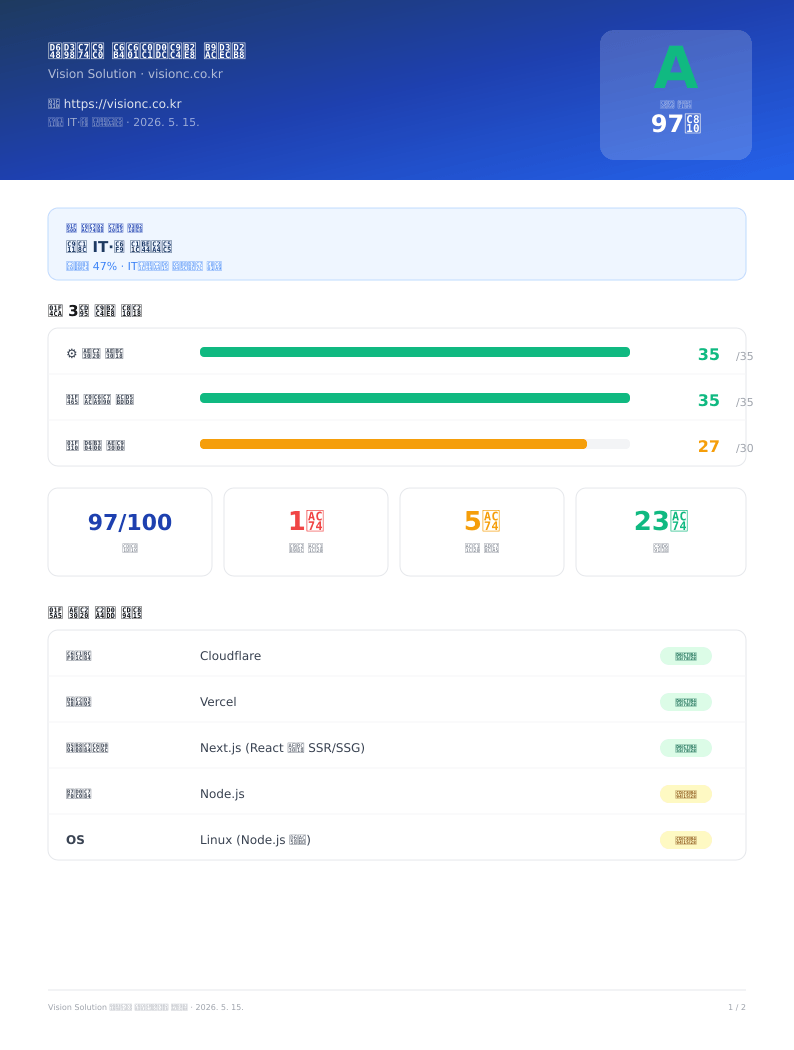
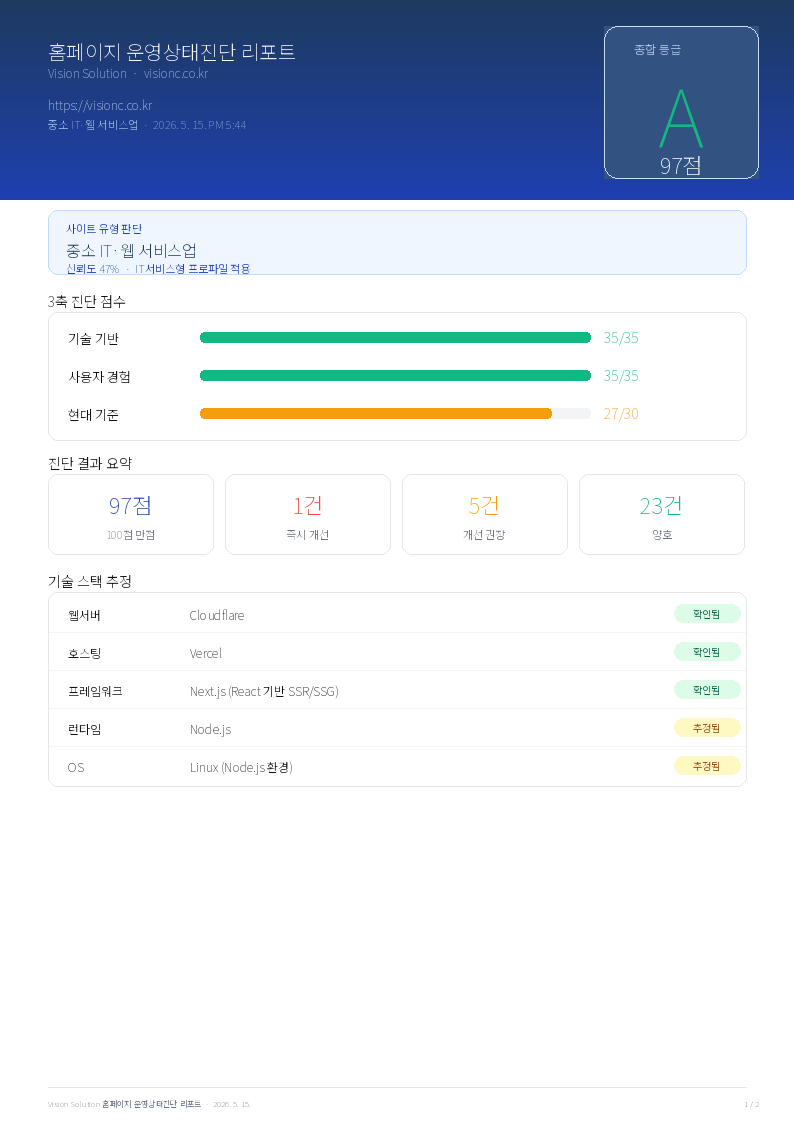
feat(blog): 홈페이지 진단 리포트 블로그 이미지 교체 + 본문 대폭 보강
- 리포트 이미지 2장: PIL+NotoSansKR로 재생성 (한글 깨짐 수정)
- 블로그 본문: 리포트 각 항목을 초보자 눈높이로 상세 설명 추가
  (종합 등급 기준, 3축 점수 의미, 기술 스택 추정, 개선 항목 6가지)
- markdownToHtml: 이미지 img 태그 렌더링 지원 추가 (클릭 없이 바로 표시)

diff --git a/content/blog/website-diagnosis-report-real-sample.md b/content/blog/website-diagnosis-report-real-sample.md
@@ -6,27 +6,224 @@ tags: "홈페이지 진단,리포트 공개,AI 분석,홈페이지 성과,무료
 image: "/images/blog/website-diagnosis-report-real-sample.svg"
 summary: "AI가 홈페이지를 자동 분석하면 어떤 리포트가 나올까요? 실제 진단 결과물을 그대로 공개합니다. 기술 점수·UX 점수·현대화 점수 100점 만점, 등급과 개선 과제까지 한눈에."
 ---
-홈페이지를 운영하고 있는데 문의가 오지 않아 고민이신가요? 어디서부터 문제를 찾아야 할지 막막하다면, 지금 바로 AI 기반 무료 홈페이지 진단 리포트를 받아보세요. 단 한 줄의 URL만 입력하면 48시간 내에 상세한 분석 결과가 담긴 PDF를 이메일로 보내드립니다.
 
-AI 진단은 홈페이지를 세 가지 핵심 축으로 평가합니다. 기술 점수, UX 점수, 현대화 점수 각각 35점, 35점, 30점 만점으로 구성되어 총 100점 만점을 기준으로 합니다. 아래 표는 각 영역별 배점과 주요 점검 항목을 보여줍니다.
+> 홈페이지가 있는데 문의가 없다. 어디가 문제인지 모르겠다.
+> 이런 상황이라면, 지금 바로 읽어보세요.
 
-| 영역 | 배점 | 주요 점검 항목 |
-|------|------|--------------|
-| 기술 점수 | 35점 | HTTPS, 보안 헤더, 메타태그, robots.txt, 사이트맵 |
-| UX 점수 | 35점 | 모바일 반응형, 뷰포트 설정, 터치 요소 크기, 폰트 가독성 |
-| 현대화 점수 | 30점 | 속도 최적화, GA4 연동, 챗봇, 스키마 마크업, CTA 배치 |
+홈페이지를 운영하는 분들이 가장 많이 하시는 말씀이 있습니다.
 
-![홈페이지 운영상태진단 리포트 1페이지](/images/blog/renewal-report-sample-p1.png)
-![홈페이지 운영상태진단 리포트 2페이지](/images/blog/renewal-report-sample-p2.png)
+**"우리 홈페이지, 그냥 있긴 한데… 뭐가 문제인지 모르겠어요."**
 
-실제로 visionc.co.kr에 적용한 진단 결과는 총점 97점, A등급이었습니다. 세부 점수는 기술 35/35점, UX 35/35점, 현대화 27/30점으로 나타났습니다. 이는 홈페이지의 기술적 안정성과 사용자 경험은 최상 수준이며, 현대화 요소에서 약간의 개선 여지가 있음을 보여줍니다.
+이걸 몰라서 생기는 문제가 생각보다 훨씬 큽니다. 광고비는 쓰는데 문의는 없고, 홈페이지를 고치고 싶은데 뭘 어디서부터 손봐야 할지 막막하죠.
 
-이제 여러분의 홈페이지도 진단받아 보세요. 문제점을 정확히 파악하고 개선 방향을 제시받을 수 있습니다. [무료 홈페이지 진단 받기](/renewal)
+저희 비전솔루션이 만든 **홈페이지 운영상태진단** 서비스는 이 고민을 해결하기 위해 만들었습니다. URL 하나만 입력하면 AI가 자동으로 분석하고, 48시간 안에 PDF 리포트를 이메일로 발송합니다.
 
-진단 리포트는 단순히 점수만 보여주는 것이 아니라, 각 항목별로 구체적인 피드백과 실행 가능한 개선 과제를 제공합니다. 예를 들어 기술 점수에서는 보안 헤더 누락이나 메타태그 최적화 여부를 확인하고, UX 점수에서는 모바일 터치 대상 크기와 폰트 가독성을 점검합니다. 현대화 점수에서는 페이지 로드 속도 최적화 여부와 GA4 연동 상태, 스키마 마크업 구현 등을 평가합니다.
+오늘은 실제 진단 결과물을 그대로 공개합니다. 리포트에 나오는 항목이 무슨 뜻인지, 초보자도 이해할 수 있도록 하나하나 설명드리겠습니다.
 
-이러한 종합적인 분석을 바탕으로 홈페이지의 전반적인 성능을 높이고, 방문자에게 더 나은 경험을 제공할 수 있습니다. 개선 사항을 적용한 후에는 재진단을 통해 점수 변화를 확인할 수도 있습니다.
+---
 
-[무료 홈페이지 진단 받기](/renewal)
+## 리포트는 이렇게 생겼습니다
 
-*이 리포트는 AI 자동 분석 결과이며 실제 환경에 따라 일부 다를 수 있습니다.*
+아래 이미지가 실제 진단 결과물입니다. 진단 대상은 저희 회사 홈페이지(visionc.co.kr)입니다.
+
+![홈페이지 운영상태진단 리포트 1페이지 — 종합 등급 및 3축 점수](/images/blog/renewal-report-sample-p1.png)
+
+![홈페이지 운영상태진단 리포트 2페이지 — 항목별 상세 진단 및 개선 과제](/images/blog/renewal-report-sample-p2.png)
+
+**결과: 97점 / A등급**
+
+처음 보시면 "이게 다 뭔 뜻이야?"라고 느끼실 수 있습니다. 지금부터 하나씩 풀어드리겠습니다.
+
+---
+
+## 종합 등급이란? — A~F까지 5단계
+
+리포트 오른쪽 상단에 크게 표시되는 **등급**은 홈페이지의 전반적인 상태를 한눈에 나타냅니다.
+
+| 등급 | 점수 | 의미 |
+|------|------|------|
+| A | 90점 이상 | 현재 상태 우수. 정기 모니터링 권장 |
+| B | 80~89점 | 양호. 일부 개선으로 상위 도달 가능 |
+| C | 70~79점 | 보통. 주요 항목 개선 필요 |
+| D | 60~69점 | 미흡. 구조적 개선이 필요한 상태 |
+| F | 60점 미만 | 위험. 빠른 조치 권장 |
+
+등급이 낮다고 해서 당장 큰일 나는 건 아닙니다. 다만 **방문자가 불편을 느끼고 있을 가능성이 높다**는 신호입니다.
+
+---
+
+## 사이트 유형 판단 — AI가 홈페이지 성격을 자동 분류합니다
+
+리포트 상단에 **"중소 IT·웹 서비스업 / 신뢰도 47% · IT서비스형 프로파일 적용"** 이라고 나옵니다.
+
+이게 무슨 뜻이냐면, AI가 홈페이지 내용을 보고 "이 사이트는 어떤 업종, 어떤 규모로 운영되는 홈페이지인가"를 자동으로 추측한다는 뜻입니다.
+
+업종마다 홈페이지에서 중요한 요소가 다릅니다. 쇼핑몰은 결제 편의성이 중요하고, IT 회사는 신뢰도와 기술력 표현이 중요하죠. 이 유형 판단을 바탕으로 진단 기준이 조금씩 달라집니다.
+
+**신뢰도 47%**는 AI가 "이 사이트가 IT·웹 서비스업일 가능성이 47%"라고 판단했다는 뜻입니다. 100%가 아닌 이유는 공개된 정보만으로 분석하기 때문입니다.
+
+---
+
+## 3축 진단 점수 — 100점 만점, 세 가지로 나눕니다
+
+점수는 크게 세 가지 축으로 나뉩니다. 합산하면 100점 만점입니다.
+
+### 기술 기반 (35점 만점)
+
+**쉽게 말하면:** 홈페이지가 "기술적으로 제대로 만들어졌는가"를 봅니다.
+
+주로 이런 것들을 확인합니다:
+- **HTTPS 적용** — 주소창에 자물쇠 아이콘이 있나요? 없으면 방문자 정보가 노출될 수 있습니다.
+- **보안 헤더 설정** — 브라우저에게 "이 사이트는 안전하게 사용해"라고 알려주는 기술 설정입니다. 없으면 해킹 시도에 더 취약합니다.
+- **메타태그 최적화** — 검색 결과에서 어떻게 보이는지를 결정하는 텍스트입니다. 잘 작성돼야 검색 노출이 잘 됩니다.
+- **robots.txt** — 검색 엔진에게 "이 페이지는 수집해도 돼, 이건 하지 마"를 알려주는 파일입니다.
+- **사이트맵** — 홈페이지의 전체 페이지 목록을 정리한 파일로, 검색 엔진이 빠르게 페이지를 발견하게 도와줍니다.
+
+visionc.co.kr은 **35점 만점**을 받았습니다. 기술적인 기반이 탄탄하다는 뜻입니다.
+
+### 사용자 경험 (35점 만점)
+
+**쉽게 말하면:** 홈페이지를 방문한 사람이 "편하게 쓸 수 있는가"를 봅니다.
+
+확인 항목 예시:
+- **모바일 반응형** — 스마트폰에서 봤을 때 글자가 너무 작거나 버튼이 짤리지 않는지
+- **뷰포트 설정** — 모바일 화면 크기에 맞게 콘텐츠가 조정되는지
+- **터치 요소 크기** — 손가락으로 클릭하기 충분히 큰지 (너무 작으면 오타가 나서 불편합니다)
+- **폰트 가독성** — 글자가 읽기 편한 크기와 색상인지
+
+visionc.co.kr은 **35점 만점**이지만, 아래에서 보시다시피 개선 권장 항목이 발견됐습니다.
+
+### 현대 기준 (30점 만점)
+
+**쉽게 말하면:** "지금 시대에 기본으로 갖춰야 할 것들이 있는가"를 봅니다.
+
+확인 항목 예시:
+- **GA4 연동** — 방문자 통계 도구가 설치돼 있는지 (없으면 누가 왔는지 알 수 없습니다)
+- **페이지 로딩 속도** — 3초 이상 걸리면 방문자의 절반이 떠납니다
+- **챗봇 또는 상담 도구** — 방문자가 바로 질문할 수 있는 창구가 있는지
+- **스키마 마크업** — 검색 결과에서 별점·FAQ 등 풍부한 정보가 표시되게 하는 코드
+- **CTA 배치** — "문의하기", "상담 신청" 버튼이 눈에 잘 띄는 위치에 있는지
+
+visionc.co.kr은 **27점/30점**으로, 개선 여지가 조금 있었습니다.
+
+---
+
+## 진단 결과 요약 카드 — 숫자로 한눈에
+
+리포트에는 4개의 요약 카드가 있습니다:
+
+- **97점 / 100점 만점** — 종합 점수
+- **1건 / 즉시 개선** — 지금 당장 고쳐야 할 것 (방치하면 문의 손실)
+- **5건 / 개선 권장** — 시간 여유가 있을 때 개선하면 좋은 것
+- **23건 / 양호** — 현재 기준에서 문제없는 항목 수
+
+"즉시 개선"과 "개선 권장"의 차이는 **긴급도**입니다. 즉시 개선은 지금 당장 방문자 이탈이나 신뢰 손실이 일어나고 있는 상황, 개선 권장은 더 잘할 수 있는 기회입니다.
+
+---
+
+## 기술 스택 추정 — AI가 홈페이지 기술을 알아냅니다
+
+리포트 하단에 이런 표가 있습니다:
+
+| 구분 | 내용 | 상태 |
+|------|------|------|
+| 웹서버 | Cloudflare | 확인됨 |
+| 호스팅 | Vercel | 확인됨 |
+| 프레임워크 | Next.js (React 기반 SSR/SSG) | 확인됨 |
+| 런타임 | Node.js | 추정됨 |
+| OS | Linux (Node.js 환경) | 추정됨 |
+
+**웹서버**는 홈페이지 파일을 인터넷에 전달해주는 역할을 합니다. Cloudflare는 전 세계 어디서 접속해도 빠르고 보안이 강력한 서비스입니다.
+
+**호스팅**은 홈페이지 파일이 실제로 저장되는 곳입니다. Vercel은 빠른 배포와 글로벌 속도로 유명합니다.
+
+**프레임워크**는 홈페이지를 만들 때 사용한 기술 도구입니다. Next.js는 React 기반으로 속도와 SEO에 강한 최신 기술입니다.
+
+**"확인됨"**은 AI가 공개 정보로 직접 확인한 것, **"추정됨"**은 간접적으로 유추한 것입니다.
+
+이 정보가 왜 필요하냐면, **리뉴얼이나 유지보수를 맡길 업체를 선정할 때** 현재 기술 스택을 알아야 적합한 개발자를 찾을 수 있기 때문입니다.
+
+---
+
+## 항목별 상세 진단 — 뭘 고쳐야 하는지 구체적으로 알 수 있습니다
+
+진단 리포트의 핵심입니다. 각 축별로 **어떤 항목이 문제인지**, **왜 문제인지**, **어떻게 고치면 되는지**까지 알려줍니다.
+
+### 사용자 경험 — 발견된 개선 항목 3가지
+
+**1. 문의·연락 버튼 접근성 (영향 높음)**
+
+- 현재 상태: 전화 링크 없음
+- 개선 방향: 전화 링크(tel:)·문의 폼을 첫 화면에서 스크롤 없이 접근 가능하게 배치
+
+**쉽게 말하면:** 방문자가 홈페이지에 들어왔을 때 바로 "전화하기" 버튼이나 "문의하기" 링크가 보여야 합니다. 스크롤을 내려야만 찾을 수 있다면, 많은 사람이 그냥 나가버립니다. 특히 모바일에서는 전화번호를 탭하면 바로 전화가 걸리는 `tel:` 링크가 필수입니다.
+
+**2. 하단 연락처 표시 (영향 중간)**
+
+- 현재 상태: 하단에 연락처·사업자 정보 없음
+- 개선 방향: 전화번호·이메일·주소를 하단에 명시
+
+**쉽게 말하면:** 홈페이지 가장 아래쪽(footer)에 회사 전화번호, 이메일, 주소, 사업자등록번호가 표시돼야 합니다. 이게 없으면 "이 회사 실제로 존재하는 건지 모르겠다"는 의심을 받습니다. 전자상거래법상 의무 표기 항목이기도 합니다.
+
+**3. 웹 접근성 기초 (영향 높음)**
+
+- 현재 상태: 건너뛰기 링크 없음, 키보드 탐색 불편
+- 개선 방향: 건너뛰기 링크 + ARIA 레이블 추가
+
+**쉽게 말하면:** 시각 장애인이나 키보드만 사용하는 분들도 홈페이지를 이용할 수 있어야 합니다. "건너뛰기 링크"는 키보드로 접속했을 때 메뉴를 일일이 탭하지 않고 바로 본문으로 이동하게 해주는 기능입니다. 공공기관이나 일정 규모 이상의 기업에서는 법적 의무 항목이기도 합니다.
+
+### 현대 기준 — 발견된 개선 항목 3가지
+
+**1. 기술 스택 현대성 (영향 높음)**
+
+- 현재 상태: Next.js 기반 — 지속적 업데이트 관리 필요
+- 개선 방향: 최신 버전 업데이트로 보안·성능·유지보수성 개선
+
+**쉽게 말하면:** 홈페이지를 만든 기술(프레임워크)도 계속 업데이트됩니다. 오래된 버전을 그대로 쓰면 보안 취약점이 생기고, 속도가 느려지고, 나중에 수정하기가 더 어려워집니다. 정기적으로 업데이트해주거나, 유지보수 계약을 통해 관리받는 것이 좋습니다.
+
+**2. SNS·채널 연동 (영향 낮음)**
+
+- 현재 상태: SNS·소셜 채널 링크 없음
+- 개선 방향: 인스타그램·유튜브·카카오 채널 링크 추가
+
+**쉽게 말하면:** 홈페이지에서 인스타그램, 유튜브, 카카오 채널 같은 SNS로 연결되는 링크가 없다는 뜻입니다. SNS 링크가 있으면 방문자가 팔로우하거나 구독해서 나중에 다시 찾아올 가능성이 높아집니다. 브랜드 노출 기회가 늘어나는 것이죠.
+
+**3. 쿠키·개인정보 동의 배너 (영향 중간)**
+
+- 현재 상태: 쿠키 동의 배너 없음
+- 개선 방향: 쿠키 동의 팝업 추가 → 개인정보보호법 대응
+
+**쉽게 말하면:** 방문자의 개인정보(방문 기록, 광고 추적 등)를 수집할 때는 반드시 동의를 받아야 합니다. 홈페이지에 들어갔을 때 "쿠키 사용에 동의하시겠어요?" 같은 팝업이 뜨는 게 그겁니다. 개인정보보호법에 따라 이게 없으면 과태료 대상이 될 수 있습니다.
+
+---
+
+## 리포트를 받은 후 어떻게 해야 하나요?
+
+**점수가 높다면(A·B등급):** 현재 상태가 양호합니다. 발견된 개선 권장 항목을 하나씩 정리해 적용하면 됩니다.
+
+**점수가 낮다면(C등급 이하):** 즉시 개선 항목부터 시작하세요. 혼자 하기 어렵다면 전문가 상담을 받으시는 게 빠릅니다.
+
+리포트에는 **견적이 포함되지 않습니다.** 결과를 보고 필요하다고 느끼실 때 별도로 상담하시면 됩니다. 부담 없이 먼저 현황만 파악해 보세요.
+
+---
+
+## 지금 바로 무료로 신청하세요
+
+신청 방법은 간단합니다:
+
+1. 아래 링크로 이동
+2. 홈페이지 주소 입력
+3. 이메일 입력 후 신청 클릭
+4. 48시간 안에 PDF 리포트가 이메일로 옵니다
+
+[무료 홈페이지 운영상태진단 신청하기](/renewal)
+
+신용카드 불필요, 회원가입 불필요, 완전 무료입니다.
+
+결과를 받아보고 나서 결정하셔도 됩니다. 지금 바로 확인해보세요.
+
+[무료 홈페이지 운영상태진단 신청하기](/renewal)
+
+---
+
+*본 리포트는 AI가 공개 접근 가능한 외부 정보를 자동으로 분석한 결과입니다. 서버 내부에 직접 접근하지 않으므로 일부 항목은 실제 구현 상태와 다를 수 있습니다. 정확한 진단이 필요하시면 전문가 검토를 병행하시길 권장합니다.*